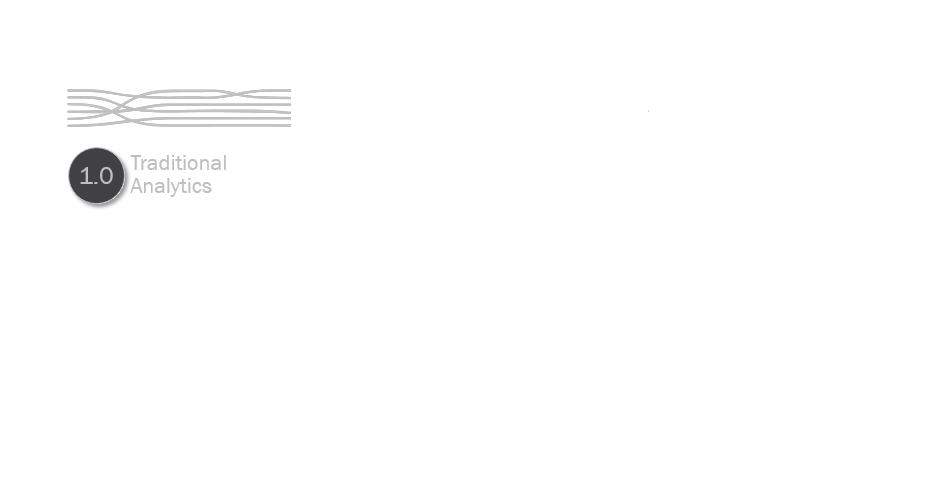
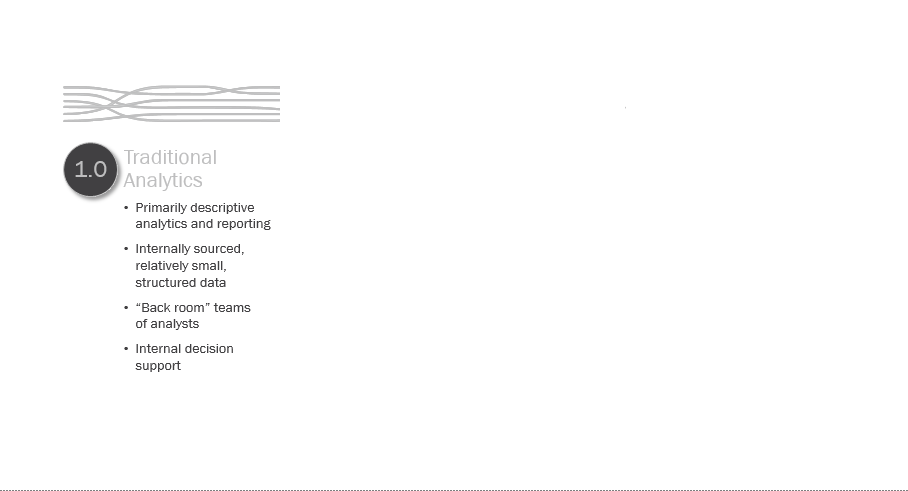
awesomesauce

Changed region(s): [[0.0617, 0.1527, 0.3084, 0.5804], [0.1542, 0.611, 0.2775, 0.6721], [0.1542, 0.7026, 0.2467, 0.7637]]

diff --git a/HealthcareAnalytics.html b/HealthcareAnalytics.html
@@ -171,7 +171,11 @@
 				<h2>Governance</h2>
 				<img src="Clint-BW.jpg" />
 				</section>
+								<section>
+				<img src="governance.png" />
+				</section>
 				<section>
+				
 				<h2>HIPAA</h2>
 				<img src="funnyhipaaecard.png" />
 				</section>
@@ -179,9 +183,7 @@
 				<h2>HIPAA</h2>
 				<h4>(Health Insurance Portability and Accountability Act)</h4>
 				<ul>
-					<li>EHR</li>
-					<li>Flowsheets</li>
-					<li>Staffing/Scheduling</li>
+					<li>Fill In Details</li>
 				</ul>
 				</section>
 				<section>
@@ -206,16 +208,29 @@
 				<img src="enhanced-buzz-17100-1362589755-12.jpg" />
 				</section>
 
-				<section>
-				<img src="governance.png" />
-				</section>
+
 			</section>
 			<section>
 				<section>
 					<h2>What's Next?</h2>
 					<img src="Improviong Quality of Healthcare.jpg" />
 				</section>
-
+				<section>
+					<h2>Analytics 1.0│Traditional Analytics</h2>
+					<img src="analytics1.PNG" />
+				</section>
+				<section>
+					<h2>Analytics 2.0│The big data era</h2>
+					<img src="analytics2.PNG" />
+				</section>
+								<section>
+					<h2>Analytics 3.0│Data Driven Decisions</h2>
+					<img src="analytics3.PNG" />
+				</section>
+								<section>
+					<h2>Analytics│Today</h2>
+					<img src="analytics4.PNG" />
+				</section>
 				<section >
 					<iframe width="420" height="315" src="https://www.youtube.com/embed/6aKNK7OTHKs" frameborder="0" allowfullscreen></iframe>
 				</section>
